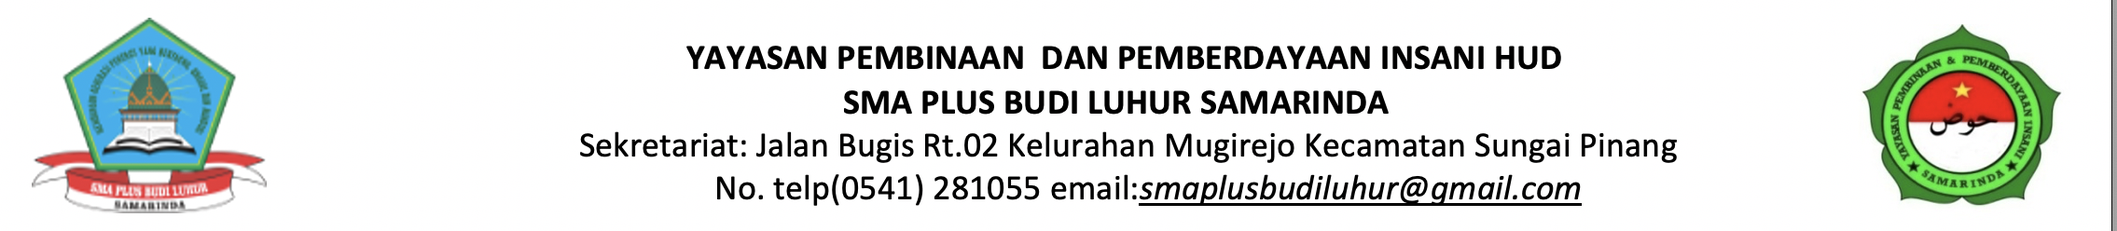
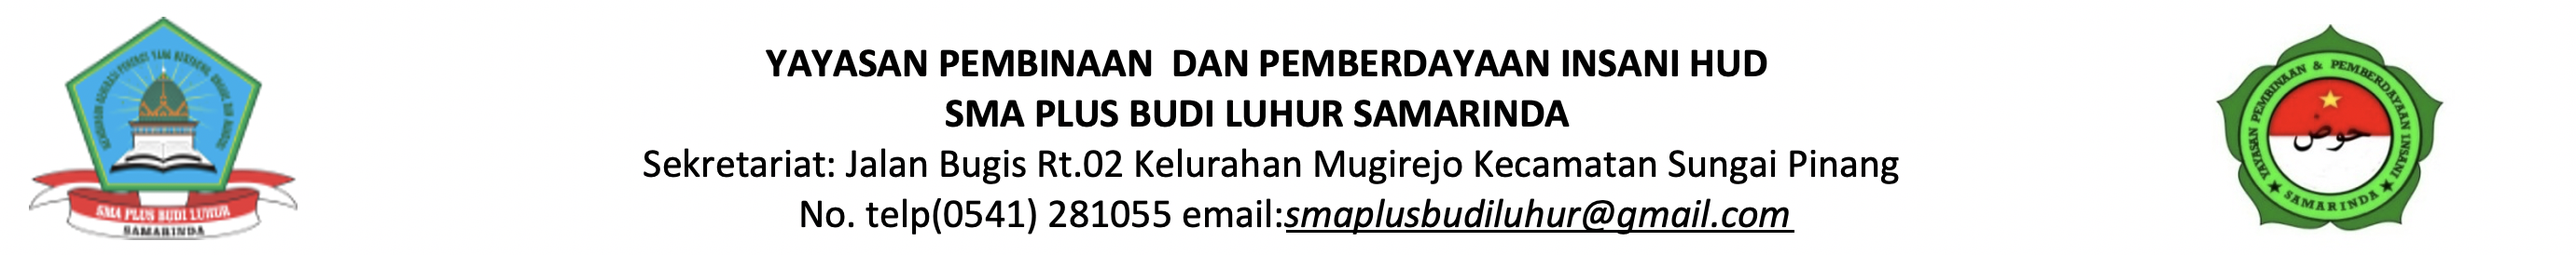
Update Kwitansi Struk

diff --git a/public/assets/custom.js b/public/assets/custom.js
@@ -272,6 +272,7 @@ $(() => {
             {data:'total_biaya',name:'total_biaya'},
             {data:'nominal_bayar',name:'nominal_bayar'},
             {data:'kembalian',name:'kembalian'},
+            {data:'jenis_bayar',name:'jenis_bayar'},
             {data:'name',name:'name'},
             {data:'action',name:'action',searchable:false,orderable:false}
         ],

diff --git a/app/Http/Controllers/AjaxController.php b/app/Http/Controllers/AjaxController.php
@@ -74,6 +74,7 @@ class AjaxController extends Controller
             $get_bulan_tunggakan = SppDetail::selectRaw("*,SUBSTRING(bulan_tahun,-4) AS tahun_numeric,SUBSTRING_INDEX(bulan_tahun, ', ', 1) as bulan_numeric")->join('spp_bulan_tahun','spp_detail.id_spp_bulan_tahun','=','spp_bulan_tahun.id_spp_bulan_tahun')
                                             ->where('id_spp',$id_spp)
                                             ->where('sisa_bayar','!=',0)
+                                            ->where('spp_bulan_tahun.status_delete',0)
                                             // ->select('spp_bulan_tahun.id_spp_bulan_tahun')
                                             ->orderByRaw("CAST('tahun' as signed) ASC, FIELD(bulan_numeric,'Januari','Februari','Maret','April','Mei','Juni','Juli','Agustus','September','Oktober','November','Desember') ASC")
                                             ->groupBy('spp_bulan_tahun.id_spp_bulan_tahun')
@@ -151,9 +152,10 @@ class AjaxController extends Controller
         $tanggal_spp        = date('Y-m-d');
         $total_biaya        = $request->total_biaya_hidden;
         // dd($total_biaya);
-        // $bayar_total        = $request->bayar_total;
-        // $kembalian          = $request->kembalian;
+        // $bayar_total     = $request->bayar_total;
+        // $kembalian       = $request->kembalian;
         $keterangan_spp     = $request->keterangan_spp;
+        $jenis_bayar        = $request->jenis_bayar;
         $id_spp_detail      = $request->id_detail;
         $bayar_spp          = $request->bayar_spp;
 
@@ -182,6 +184,7 @@ class AjaxController extends Controller
             'untuk_pembayaran_raw' => $get_spp_bulan_tahun->bulan_tahun,
             'tanggal_spp'          => $tanggal_spp,
             'tanggal_spp_convert'  => human_date($tanggal_spp),
+            'jenis_bayar'          => $jenis_bayar,
             'bulan_awal'           => $get_spp_bulan_tahun->bulan_tahun,
             'bulan_akhir'          => '',
             'id_spp_bulan_tahun'   => $id_spp_bulan_tahun

diff --git a/resources/views/Admin/dashboard.blade.php b/resources/views/Admin/dashboard.blade.php
@@ -361,6 +361,17 @@
                                                         <input type="text" class="form-control" required="" id="keterangan-spp" placeholder="Isi Keterangan">
                                                     </div>
                                                 </div>
+                                                <div class="form-group row">
+                                                    <label class="col-4 col-form-label">Jenis Bayar</label>
+                                                    <div class="col-7">
+                                                        <select name="jenis_bayar" class="form-control select2 jenis-bayar" required>
+                                                            <option value disabled selected>=== Pilih Jenis Bayar ===</option>
+                                                            <option value="cash">Cash</option>
+                                                            <option value="alumni">Alumni</option>
+                                                            <option value="transfer">Transfer</option>
+                                                        </select>
+                                                    </div>
+                                                </div>
                                             </div>
                                         </div>
                                     </div>

diff --git a/storage/framework/views/5554895de727f33700b0e3f339e2a480de00cea8.php b/storage/framework/views/5554895de727f33700b0e3f339e2a480de00cea8.php
@@ -356,6 +356,17 @@
                                                         <input type="text" class="form-control" required="" id="keterangan-spp" placeholder="Isi Keterangan">
                                                     </div>
                                                 </div>
+                                                <div class="form-group row">
+                                                    <label class="col-4 col-form-label">Jenis Bayar</label>
+                                                    <div class="col-7">
+                                                        <select name="jenis_bayar" class="form-control select2 jenis-bayar" required>
+                                                            <option value disabled selected>=== Pilih Jenis Bayar ===</option>
+                                                            <option value="cash">Cash</option>
+                                                            <option value="alumni">Alumni</option>
+                                                            <option value="transfer">Transfer</option>
+                                                        </select>
+                                                    </div>
+                                                </div>
                                             </div>
                                         </div>
                                     </div>

diff --git a/storage/framework/views/9fe932f445436bb1d537de783f8c109c379a5a08.php b/storage/framework/views/9fe932f445436bb1d537de783f8c109c379a5a08.php
@@ -20,6 +20,11 @@
         p {
             font-size:20px;
         }
+        img{
+          display: block;
+          margin-left: auto;
+          margin-right: auto;
+        }
     </style>
     <link href="<?php echo e(asset('assets/css/bootstrap.min.css')); ?>" rel="stylesheet" type="text/css" />
 </head>
@@ -29,7 +34,9 @@
         Kembali
     </a>
     <div class="form-group clearfix">
-        <h4 class="text-center"> KWITANSI PEMBAYARAN SPP <br> SMA BUDI LUHUR SAMARINDA</h4>
+        <img src="<?php echo e(asset('assets/kop_laporan.png')); ?>" width="1200" alt="">
+        <hr>
+        <h4 class="text-center" style="margin-bottom:5%;"> KWITANSI PEMBAYARAN SPP <br> SMA BUDI LUHUR SAMARINDA</h4>
         <div class="col-lg-12">
             <table>
                 <tr>

diff --git a/app/Http/Controllers/Admin/DashboardController.php b/app/Http/Controllers/Admin/DashboardController.php
@@ -223,6 +223,7 @@ class DashboardController extends Controller
         $bayar_total    = $request->bayar_total;
         $kembalian      = $request->kembalian;
         $keterangan_spp = $request->keterangan_spp;
+        $jenis_bayar    = $request->jenis_bayar;
         $id_spp         = $request->id_spp;
         // dd($id_spp);
 
@@ -273,6 +274,7 @@ class DashboardController extends Controller
                 'total_biaya'          => $total_biaya,
                 'nominal_bayar'        => $bayar_total,
                 'kembalian'            => $kembalian,
+                'jenis_bayar'          => $jenis_bayar,
                 'keterangan_bayar_spp' => $keterangan_spp,
                 'id_users'             => auth()->user()->id_users
             ];

diff --git a/resources/views/Admin/spp-bayar/struk.blade.php b/resources/views/Admin/spp-bayar/struk.blade.php
@@ -20,6 +20,11 @@
         p {
             font-size:20px;
         }
+        img{
+          display: block;
+          margin-left: auto;
+          margin-right: auto;
+        }
     </style>
     <link href="{{asset('assets/css/bootstrap.min.css')}}" rel="stylesheet" type="text/css" />
 </head>
@@ -29,7 +34,9 @@
         Kembali
     </a>
     <div class="form-group clearfix">
-        <h4 class="text-center"> KWITANSI PEMBAYARAN SPP <br> SMA BUDI LUHUR SAMARINDA</h4>
+        <img src="{{ asset('assets/kop_laporan.png') }}" width="1200" alt="">
+        <hr>
+        <h4 class="text-center" style="margin-bottom:5%;"> KWITANSI PEMBAYARAN SPP <br> SMA BUDI LUHUR SAMARINDA</h4>
         <div class="col-lg-12">
             <table>
                 <tr>

diff --git a/resources/views/Admin/spp-detail/struk.blade.php b/resources/views/Admin/spp-detail/struk.blade.php
@@ -20,6 +20,11 @@
         p {
             font-size:20px;
         }
+        img{
+          display: block;
+          margin-left: auto;
+          margin-right: auto;
+        }
     </style>
     <link href="{{asset('assets/css/bootstrap.min.css')}}" rel="stylesheet" type="text/css" />
 </head>
@@ -29,7 +34,9 @@
         Kembali
     </a>
     <div class="form-group clearfix">
-        <h4 class="text-center"> KWITANSI PEMBAYARAN SPP <br> SMA BUDI LUHUR SAMARINDA</h4>
+        <img src="{{ asset('assets/kop_laporan.png') }}" width="1200" alt="">
+        <hr>
+        <h4 class="text-center" style="margin-bottom:5%;"> KWITANSI PEMBAYARAN SPP <br> SMA BUDI LUHUR SAMARINDA</h4>
         <div class="col-lg-12">
             <table>
                 <tr>

diff --git a/resources/views/Admin/struk.blade.php b/resources/views/Admin/struk.blade.php
@@ -20,6 +20,11 @@
         p {
             font-size:20px;
         }
+        img{
+          display: block;
+          margin-left: auto;
+          margin-right: auto;
+        }
     </style>
     <link href="{{asset('assets/css/bootstrap.min.css')}}" rel="stylesheet" type="text/css" />
 </head>
@@ -29,7 +34,9 @@
         Kembali
     </a>
     <div class="form-group clearfix">
-        <h4 class="text-center"> KWITANSI PEMBAYARAN SPP <br> SMA BUDI LUHUR SAMARINDA</h4>
+        <img src="{{ asset('assets/kop_laporan.png') }}" width="1200" alt="">
+        <hr>
+        <h4 class="text-center" style="margin-bottom:5%;"> KWITANSI PEMBAYARAN SPP <br> SMA BUDI LUHUR SAMARINDA</h4>
         <div class="col-lg-12">
             <table>
                 <tr>

diff --git a/storage/framework/views/59da62be90c8d2e5c70d57dc644ee62897f68ad5.php b/storage/framework/views/59da62be90c8d2e5c70d57dc644ee62897f68ad5.php
@@ -68,6 +68,7 @@
                                 <th>Nominal Bayar</th>
                                 <th>Total Bayar</th>
                                 <th>Kembalian</th>
+                                <th>Jenis Bayar</th>
                                 <th>Input By</th>
                                 <th>#</th>
                             </tr>
